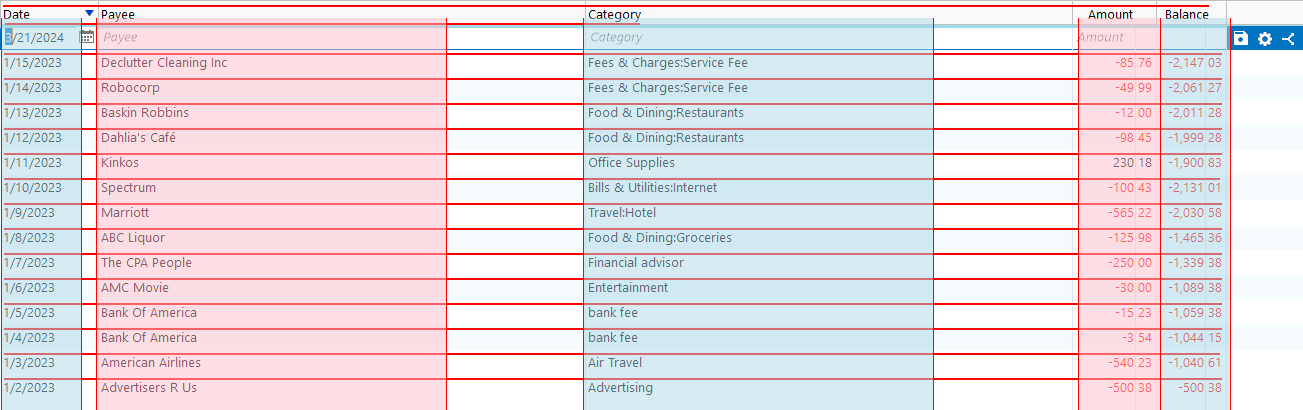
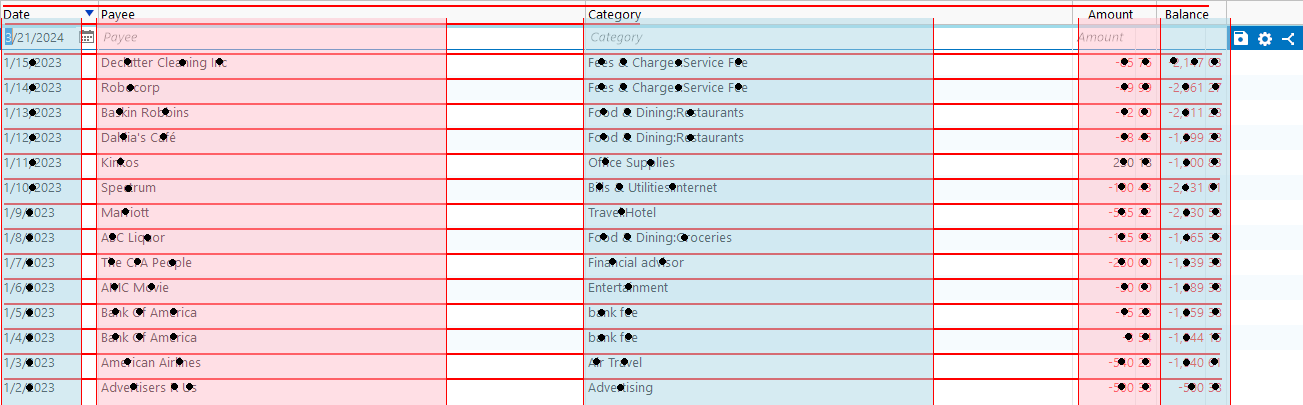
update images

diff --git a/src/OCRLibrary.py b/src/OCRLibrary.py
@@ -442,8 +442,7 @@ def ocr_table(
                 radius = 3
                 left_up_point = (column["x"] - radius, column["y"] - radius)
                 right_down_point = (column["x"] + radius, column["y"] + radius)
-                if configuration.show_post_recognition_image:
-                    draw.ellipse([left_up_point, right_down_point], fill="black")
+                draw.ellipse([left_up_point, right_down_point], fill="black")
 
             print(f"column_name:{column_name} column_text:{column['text']}")
 
